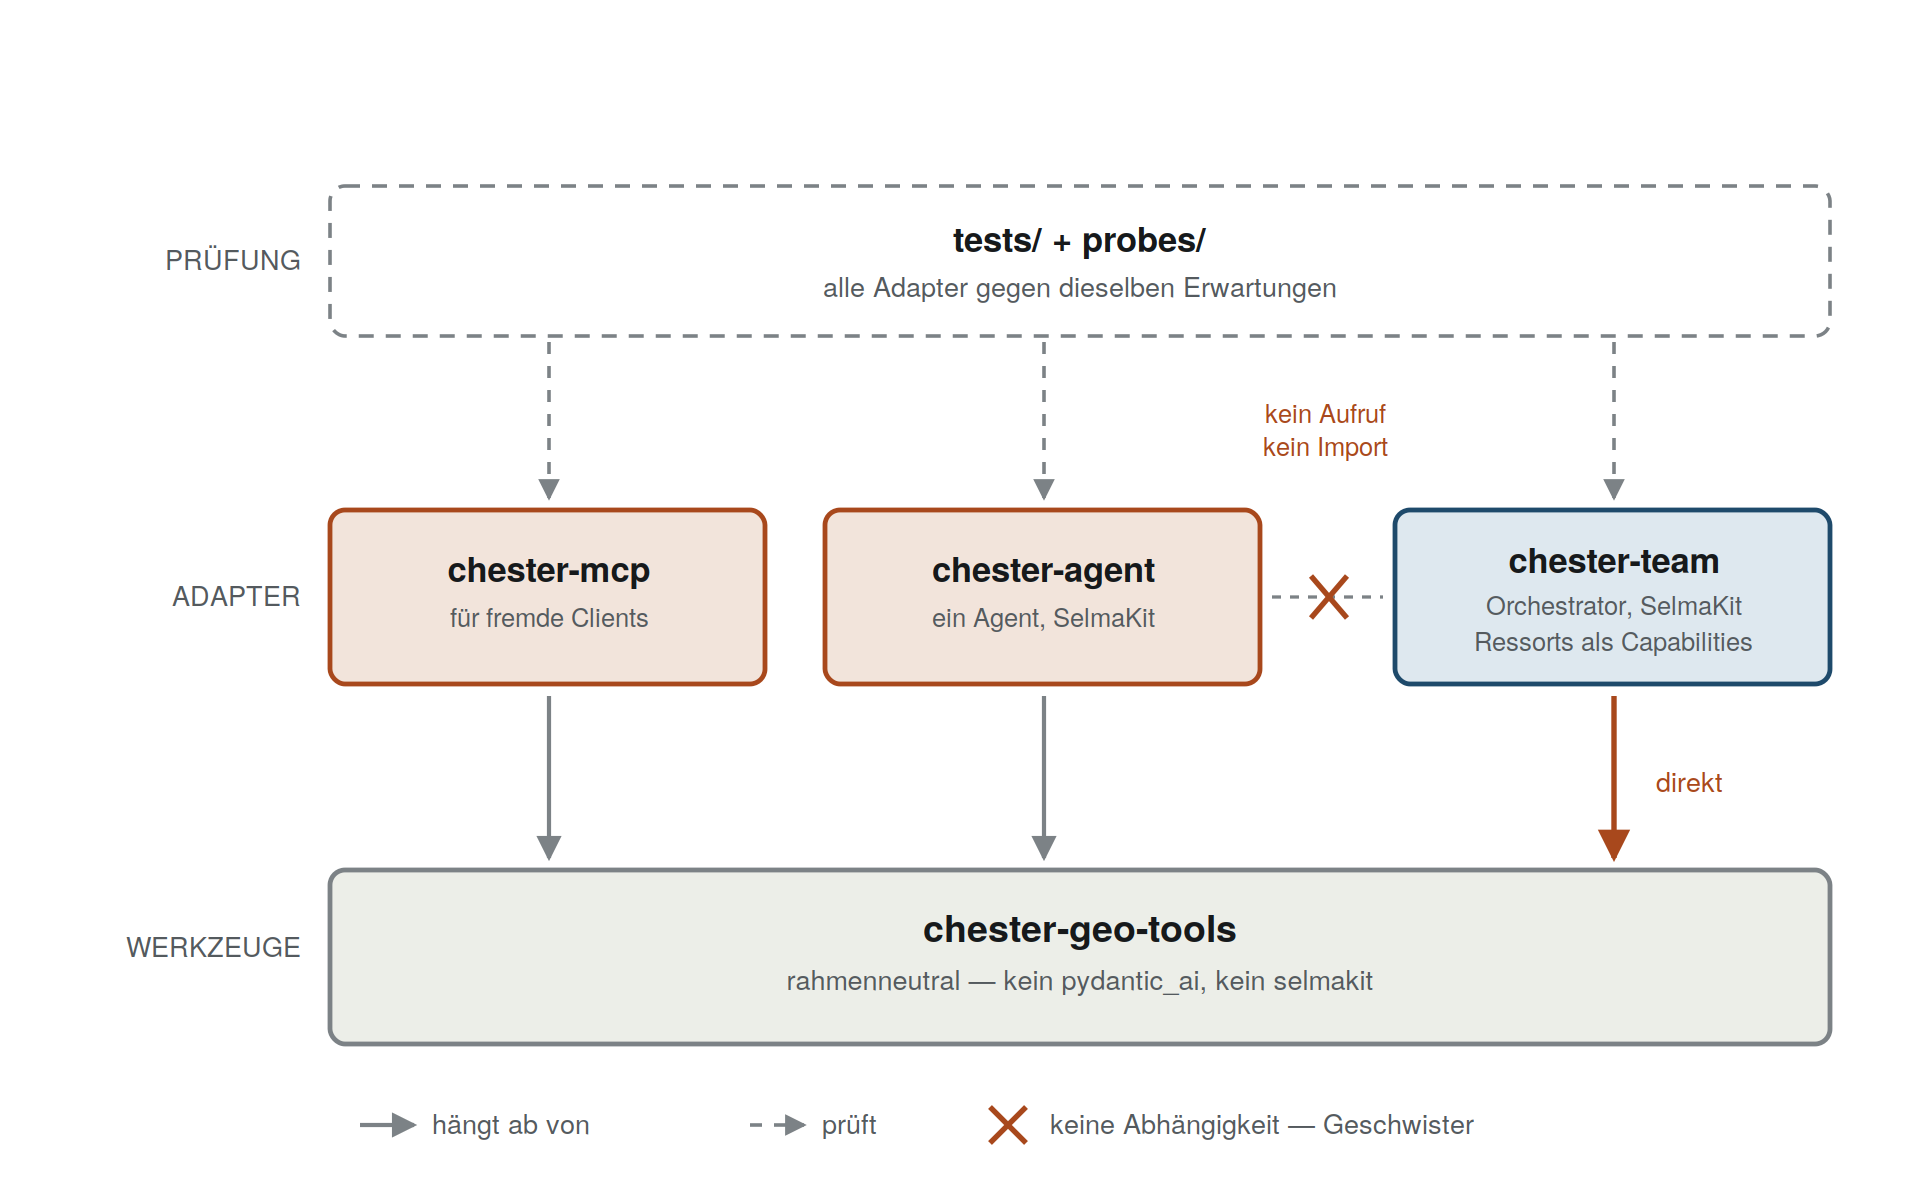
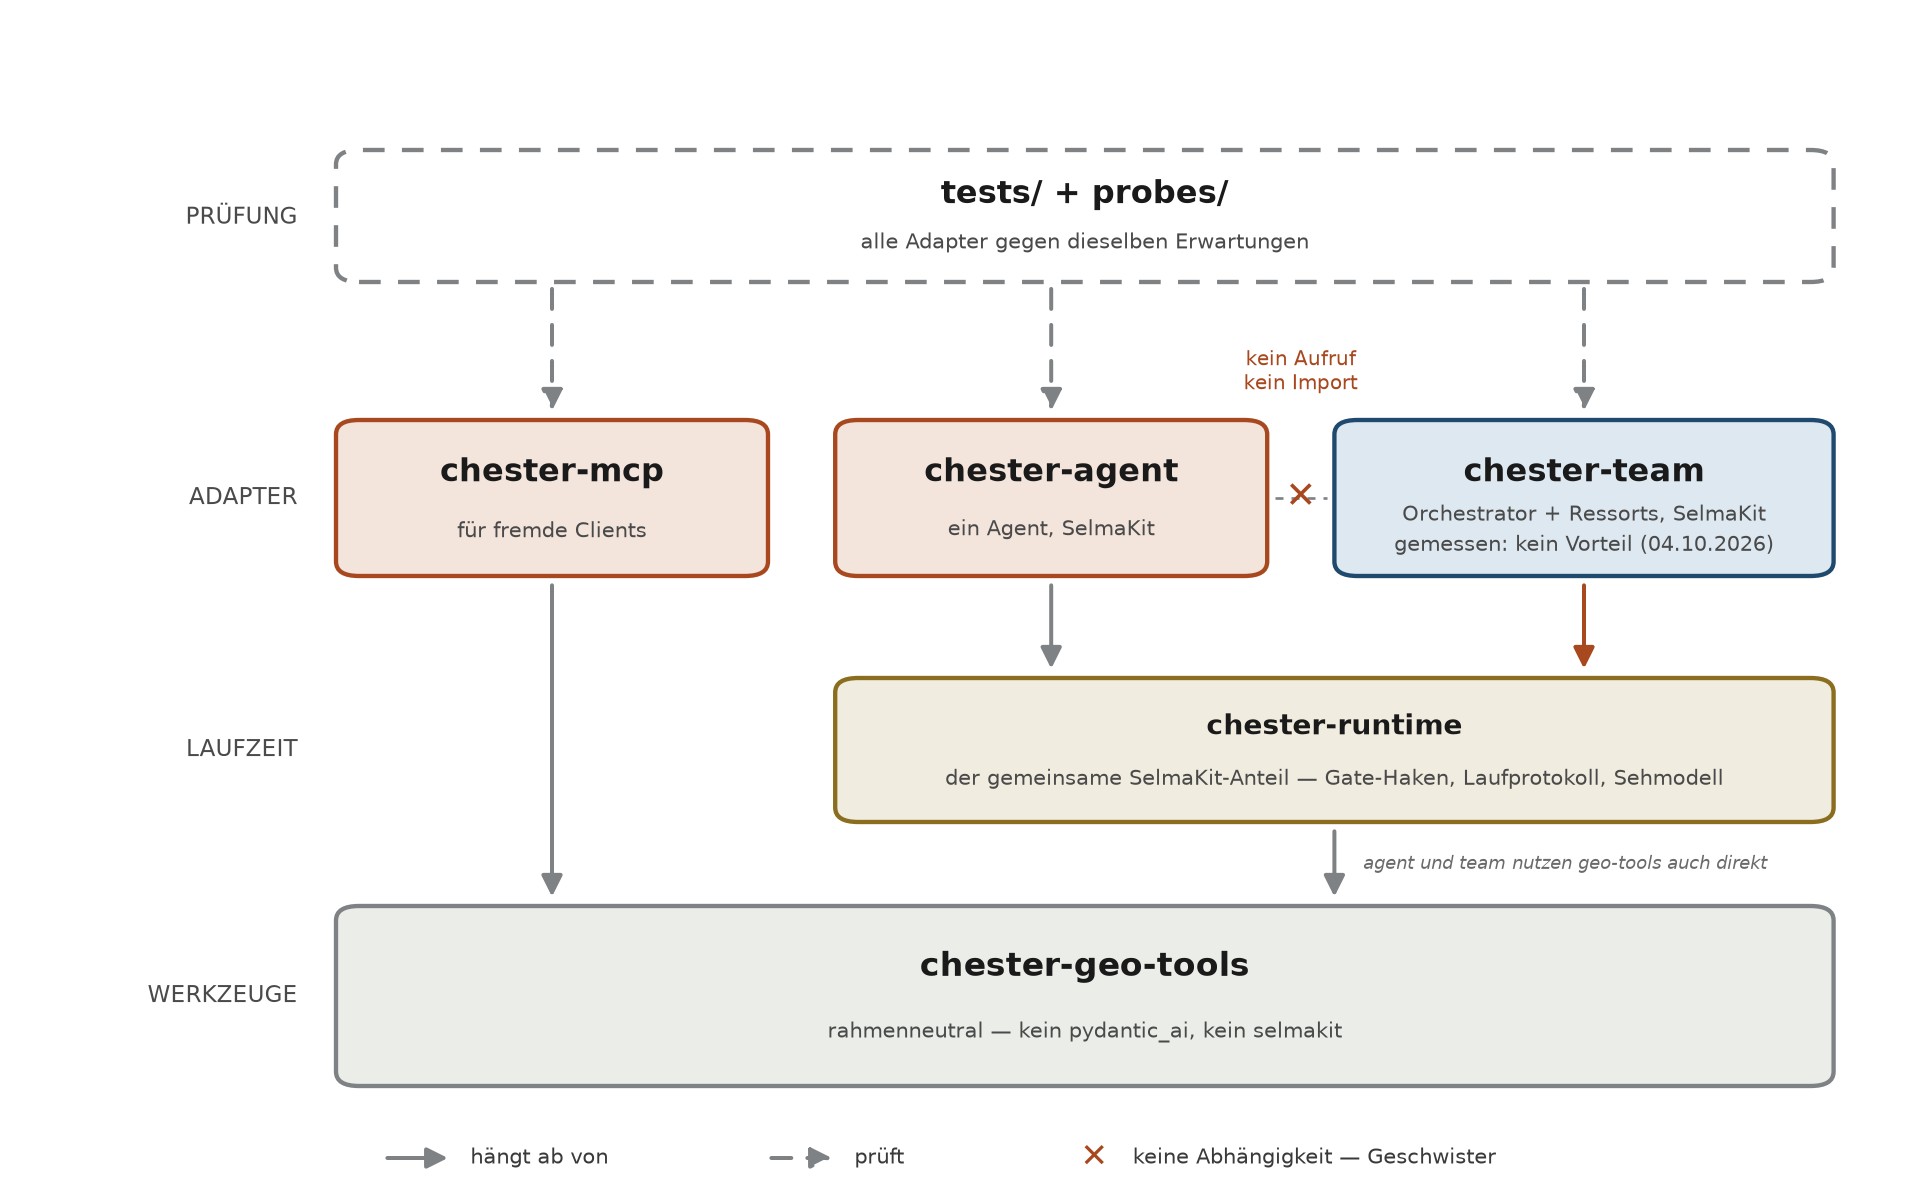
probes/ ist ein eigenes Verzeichnis (KP.3), und das Paketbild zeigt runtime
Aufgaben, Fixtures und Erzeuger der Test-Level-2-Proben liegen jetzt
zusammen unter probes/: agent-probe-tasks.jsonl, fixtures/, make_fixtures.py
-- per git mv, damit die Geschichte mitkommt. Elf Leser umgestellt; in den
Lint- und Sprach-Baselines wurde der Schluessel umbenannt, nicht die Zahl
angehoben.

doc/img/pakete.png zeigt jetzt fuenf Pakete: chester-runtime als gemeinsamer
SelmaKit-Anteil zwischen agent/team und geo-tools. Das Bild hatte keinen
Erzeuger; es ist jetzt reproduzierbar (Skript privat, wie die anderen
Diagrammskripte).

Beim Umzug gefunden, nicht still geaendert: Die .gpkg/.tif-Fixtures waren nie
eingecheckt -- .gitignore sperrt sie --, obwohl die Doku "eingecheckt" sagt.

Claude-Session: https://claude.ai/code/session_01Pe9To8MZm6kTNjDpnXYjNK

diff --git a/probe.py b/probe.py
@@ -68,8 +68,8 @@ DEFAULT_TIMEOUT_S = 480
 #: start, so a longer cap never shifts a comparison unnoticed.
 TEAM_TIMEOUT_S = 900
 
-TASKS = Path(__file__).parent / "agent-probe-tasks.jsonl"
-FIXTURES = Path(__file__).parent / "samples" / "probe"
+TASKS = Path(__file__).parent / "probes" / "agent-probe-tasks.jsonl"
+FIXTURES = Path(__file__).parent / "probes" / "fixtures"
 
 
 def workspace() -> Path:
@@ -87,8 +87,8 @@ def load_tasks() -> list[dict]:
 def stage_fixtures(ws: Path, task: dict) -> None:
     """Die Fixtures der Aufgabe in den Arbeitsbereich legen (immer frisch).
 
-    Die Fixtures liegen eingecheckt in `samples/probe/`; fehlt eine, erzeugt
-    `samples/make_probe_fixtures.py` den ganzen Satz neu und rechnet die Sollwerte
+    Die Fixtures liegen eingecheckt in `probes/fixtures/`; fehlt eine, erzeugt
+    `probes/make_fixtures.py` den ganzen Satz neu und rechnet die Sollwerte
     dabei vor.
     """
     ws.mkdir(parents=True, exist_ok=True)
@@ -97,7 +97,7 @@ def stage_fixtures(ws: Path, task: dict) -> None:
         if not src.is_file():
             raise SystemExit(
                 f"Fixture fehlt: {src}\n"
-                "Einmal erzeugen:  uv run python samples/make_probe_fixtures.py"
+                "Einmal erzeugen:  uv run python probes/make_fixtures.py"
             )
         shutil.copyfile(src, ws / name)
 
@@ -308,7 +308,7 @@ def main() -> None:
     if missing:
         print(
             f"Fixtures fehlen ({', '.join(missing)}).\n"
-            "Neu erzeugen:  uv run python samples/make_probe_fixtures.py",
+            "Neu erzeugen:  uv run python probes/make_fixtures.py",
             file=sys.stderr,
         )
         sys.exit(2)

diff --git a/tests/test_probes.py b/tests/test_probes.py
@@ -153,7 +153,7 @@ def test_every_shipped_task_is_well_formed(task_id):
 
     tasks = {
         json.loads(line)["id"]: json.loads(line)
-        for line in Path("agent-probe-tasks.jsonl").read_text(encoding="utf-8").splitlines()
+        for line in Path("probes/agent-probe-tasks.jsonl").read_text(encoding="utf-8").splitlines()
         if line.strip()
     }
     t = tasks[task_id]
@@ -165,9 +165,9 @@ def test_every_shipped_task_is_well_formed(task_id):
     # Die Fixtures liegen eingecheckt bei; fehlen sie trotzdem (jemand hat sie
     # gelöscht, ein sparsamer Checkout), prüft dieser Test hier nichts, statt
     # `./check.sh` rot zu färben — dieselbe Regel wie `_unpublished_or_skip`.
-    fixtures = Path("samples/probe")
+    fixtures = Path("probes/fixtures")
     if not fixtures.is_dir():
-        pytest.skip("samples/probe/ fehlt — `uv run python samples/make_probe_fixtures.py`")
+        pytest.skip("probes/fixtures/ fehlt — `uv run python probes/make_fixtures.py`")
     for fixture in t.get("fixtures", []):
         assert (fixtures / fixture).is_file(), f"Fixture fehlt: {fixture}"
 
@@ -210,7 +210,7 @@ def test_the_refusal_probe_demands_a_finish():
     from chester.probes import timeout_decides
 
     tasks = {json.loads(li)["id"]: json.loads(li)
-             for li in Path("agent-probe-tasks.jsonl").read_text(encoding="utf-8").splitlines()
+             for li in Path("probes", "agent-probe-tasks.jsonl").read_text("utf-8").splitlines()
              if li.strip()}
     assert timeout_decides(tasks["ndvi-without-nir"]) is True
     assert timeout_decides(tasks["union-not-sum"]) is False

diff --git a/test_app.py b/test_app.py
@@ -12,7 +12,7 @@ A comfortable UI over the *same* machinery as ``testprompt.py`` / ``evals.py`` /
                ``agent-test-prompts.jsonl``.
 - **History** — the aggregate report (pass-rate + coverage per model, latest
                verdict per test) plus the raw judged-run log.
-- **Test-Level 2** — the micro-geo probes (`agent-probe-tasks.jsonl`): read and edit
+- **Test-Level 2** — the micro-geo probes (`probes/agent-probe-tasks.jsonl`): read and edit
                them, run one or all against the live agent, and read the archived
                results. Same runner as `probe.py`, only presented.
 - **Test-Level 4** — the multi-turn dialogues (`agent-dialog-tests.jsonl`): the turns
@@ -787,7 +787,7 @@ with tab_probe:
     latest = latest_per_probe(hist)
 
     st.caption(
-        f"Datei: `agent-probe-tasks.jsonl` — {len(probes)} Proben · "
+        f"Datei: `probes/agent-probe-tasks.jsonl` — {len(probes)} Proben · "
         f"kein Judge, kein Netz · Zeitdeckel je Probe"
     )
 
@@ -822,7 +822,7 @@ with tab_probe:
             p_trap = st.text_area("trap", value=task.get("trap", ""), height=68)
             p_prompt = st.text_area("prompt_de", value=task["prompt_de"], height=100)
             p_fix = st.text_input(
-                "fixtures (Komma-getrennt, aus samples/probe/)",
+                "fixtures (Komma-getrennt, aus probes/fixtures/)",
                 value=", ".join(task.get("fixtures", [])),
             )
             p_asserts = st.text_area(

diff --git a/probes/make_fixtures.py b/probes/make_fixtures.py
@@ -3,9 +3,9 @@
 Jeder Sollwert der Probe-Aufgaben wird **hier** gerechnet und ausgegeben, damit er
 nachvollziehbar bleibt statt zugesichert zu sein. Aufruf:
 
-    uv run python samples/make_probe_fixtures.py
+    uv run python probes/make_fixtures.py
 
-Schreibt nach ``samples/probe/`` (rund 1,1 MB, eingecheckt). Die Geometrien
+Schreibt nach ``probes/fixtures/`` (rund 1,1 MB, eingecheckt). Die Geometrien
 liegen um Regensburg in EPSG:25832; wo eine Aufgabe die Grad-Falle prüft, liegt
 dieselbe Ebene zusätzlich in EPSG:4326.
 """
@@ -24,7 +24,7 @@ from rasterio.transform import from_origin
 from shapely.geometry import LineString, Point, box
 from shapely.ops import unary_union
 
-OUT = Path(__file__).parent / "probe"
+OUT = Path(__file__).parent / "fixtures"
 CRS = "EPSG:25832"
 X0, Y0 = 720_000, 5_430_000  # irgendwo bei Regensburg, runde Zahlen
 expected: dict[str, float] = {}
@@ -175,7 +175,7 @@ def main() -> None:
     (OUT / "expected.json").write_text(
         json.dumps(expected, indent=2, sort_keys=True) + "\n", encoding="utf-8"
     )
-    print("\nSollwerte (auch in samples/probe/expected.json):")
+    print("\nSollwerte (auch in probes/fixtures/expected.json):")
     for k, v in sorted(expected.items()):
         print(f"  {k:34s} {v:,.4f}" if isinstance(v, float) else f"  {k:34s} {v}")
 

diff --git a/tests/test_geo_capabilities.py b/tests/test_geo_capabilities.py
@@ -837,8 +837,8 @@ def test_vector_info_describes_a_table_without_geometry(tmp_path):
 
     cache = tmp_path / "geocache"
     cache.mkdir(parents=True)
-    shutil.copy("samples/probe/einwohner.csv", cache / "einwohner.csv")
-    shutil.copy("samples/probe/gemeinden.gpkg", cache / "gemeinden.gpkg")
+    shutil.copy("probes/fixtures/einwohner.csv", cache / "einwohner.csv")
+    shutil.copy("probes/fixtures/gemeinden.gpkg", cache / "gemeinden.gpkg")
     tools = tools_of(VectorCapability(workspace=str(tmp_path)))
 
     csv = tools["vector_info"]("einwohner.csv")

diff --git a/tests/test_ressortcut.py b/tests/test_ressortcut.py
@@ -79,7 +79,7 @@ def test_the_probe_bank_uses_the_same_ressort_names():
 def test_each_probe_expects_its_tools_in_its_ressort():
     """A probe whose expected tool sits in another ressort would measure the orchestrator
     against a routing the cut itself contradicts."""
-    rows = [json.loads(line) for line in (ROOT / "agent-probe-tasks.jsonl")
+    rows = [json.loads(line) for line in (ROOT / "probes" / "agent-probe-tasks.jsonl")
             .read_text(encoding="utf-8").splitlines() if line.strip()]
     wrong = {}
     for task in rows:

diff --git a/tests/test_toolchoice.py b/tests/test_toolchoice.py
@@ -13,7 +13,7 @@ from pathlib import Path
 from chester import toolchoice
 
 ROOT = Path(__file__).resolve().parent.parent
-TASKS = ROOT / "agent-probe-tasks.jsonl"
+TASKS = ROOT / "probes" / "agent-probe-tasks.jsonl"
 
 
 def _known_tools() -> set[str]:

diff --git a/doc/code-map.md b/doc/code-map.md
@@ -25,7 +25,7 @@ die Prüfungen (`gate.py`, rein) und den Schleifenhaken (`runtime/gatehook.py`).
 ### Ein Repository, fünf Pakete
 
 <p align="center">
-  <img src="./img/pakete.png" alt="Vier Pakete: chester-geo-tools unten als Werkzeugschicht; darüber als Geschwister die Adapter chester-mcp, chester-agent und chester-team, die alle direkt von geo-tools abhängen; zwischen agent und team kein Aufruf und kein Import; darüber tests/ und probes/, die alle Adapter gegen dieselben Erwartungen prüfen" width="820">
+  <img src="./img/pakete.png" alt="Fünf Pakete: chester-geo-tools unten als Werkzeugschicht; darüber chester-runtime, der gemeinsame SelmaKit-Anteil; darüber als Geschwister die Adapter chester-mcp (direkt auf geo-tools), chester-agent und chester-team (auf runtime und geo-tools); zwischen agent und team kein Aufruf und kein Import; darüber tests/ und probes/, die alle Adapter gegen dieselben Erwartungen prüfen" width="820">
 </p>
 
 Vorgeschlagen waren zunächst **vier Repositories** (geo-tools, agent, mcp, team).
@@ -314,8 +314,8 @@ Kern, den ein neuer Leser zuerst braucht — sie stehen deshalb zuerst.
   `chester.evalhistory` — the *same* formatter the `/eval` slash command uses.
 - `probe.py` — der Runner für **Test-Level 2** (Mikro-Geo-Proben, `doc/test-levels.md`):
   eine Aufgabe, ein Werkzeug, ein exakter Sollwert, gemessen am **erzeugten Artefakt**
-  — kein Judge, kein Netz. Liest `agent-probe-tasks.jsonl`, kopiert die Fixtures aus
-  `samples/probe/` frisch in den Workspace und **löscht vorher die erwarteten
+  — kein Judge, kein Netz. Liest `probes/agent-probe-tasks.jsonl`, kopiert die Fixtures aus
+  `probes/fixtures/` frisch in den Workspace und **löscht vorher die erwarteten
   Ausgaben** (sonst besteht ein Lauf auf der Datei des vorigen), wertet mit
   `chester/probes.py` aus und archiviert jede Probe. Drei Eigenschaften sind
   Messvoraussetzung, nicht Komfort: **alle Proben in einem Prozess** (gleicher

diff --git a/doc/test-levels.md b/doc/test-levels.md
@@ -80,8 +80,8 @@ Deshalb: **Skelett aus der Norm, Inhalt aus den Fallen.**
 
 | | |
 |---|---|
-| Aufgaben | `agent-probe-tasks.jsonl` — je Zeile eine Probe: Operation, Falle, Prompt, Fixtures, Prüfungen; seit 2026-09-19 auch `expected_tools` und `expected_ressort` (siehe unten) |
-| Fixtures | `samples/probe/`, erzeugt von `samples/make_probe_fixtures.py`; **jeder Sollwert wird dort gerechnet und ausgegeben**, statt zugesichert zu sein (`samples/probe/expected.json`). Die Dateien liegen eingecheckt bei (1,1 MB), das Skript erzeugt sie neu, wenn sich eine Aufgabe ändert |
+| Aufgaben | `probes/agent-probe-tasks.jsonl` — je Zeile eine Probe: Operation, Falle, Prompt, Fixtures, Prüfungen; seit 2026-09-19 auch `expected_tools` und `expected_ressort` (siehe unten) |
+| Fixtures | `probes/fixtures/`, erzeugt von `probes/make_fixtures.py`; **jeder Sollwert wird dort gerechnet und ausgegeben**, statt zugesichert zu sein (`samples/probe/expected.json`). Die Dateien liegen eingecheckt bei (1,1 MB), das Skript erzeugt sie neu, wenn sich eine Aufgabe ändert |
 | Auswertung | `chester/probes.py` — acht Prüfarten (`output_exists`, `no_output`, `crs_metric`, `crs_epsg`, `features`, `area_m2`, `no_nulls`, `value_seen`), rein und ohne Modell testbar (`tests/test_probes.py`) |
 | Runner | `probe.py` — `uv run probe.py`, `uv run probe.py <id>`, `--list`, `--verbose` |
 | Werkzeugwahl | `chester/toolchoice.py` — wurde eines der `expected_tools` gerufen? **Zählt nicht fürs Bestehen**; steht als eigene Zeile im Protokoll, als `tool_hit` in der Historie und als Quote am Ende des Laufs |

diff --git a/doc/usage.md b/doc/usage.md
@@ -111,7 +111,7 @@ uv run dialog.py --list
 Test-Level 2 braucht **kein Netz und keinen Judge**: Jede Probe stellt eine Operation
 gegen einen exakten Sollwert und prüft am erzeugten Artefakt. Das ist der Vorfilter vor
 einem Modellwechsel — Minuten statt eines Bank-Laufs. Die Fixtures liegen in
-`samples/probe/` (eingecheckt); `samples/make_probe_fixtures.py` erzeugt sie neu und
+`probes/fixtures/` (eingecheckt); `probes/make_fixtures.py` erzeugt sie neu und
 rechnet dabei jeden Sollwert vor, statt ihn zuzusichern.
 
 QGIS-Tests werden automatisch übersprungen, wenn `qgis_process` nicht gefunden wird.
